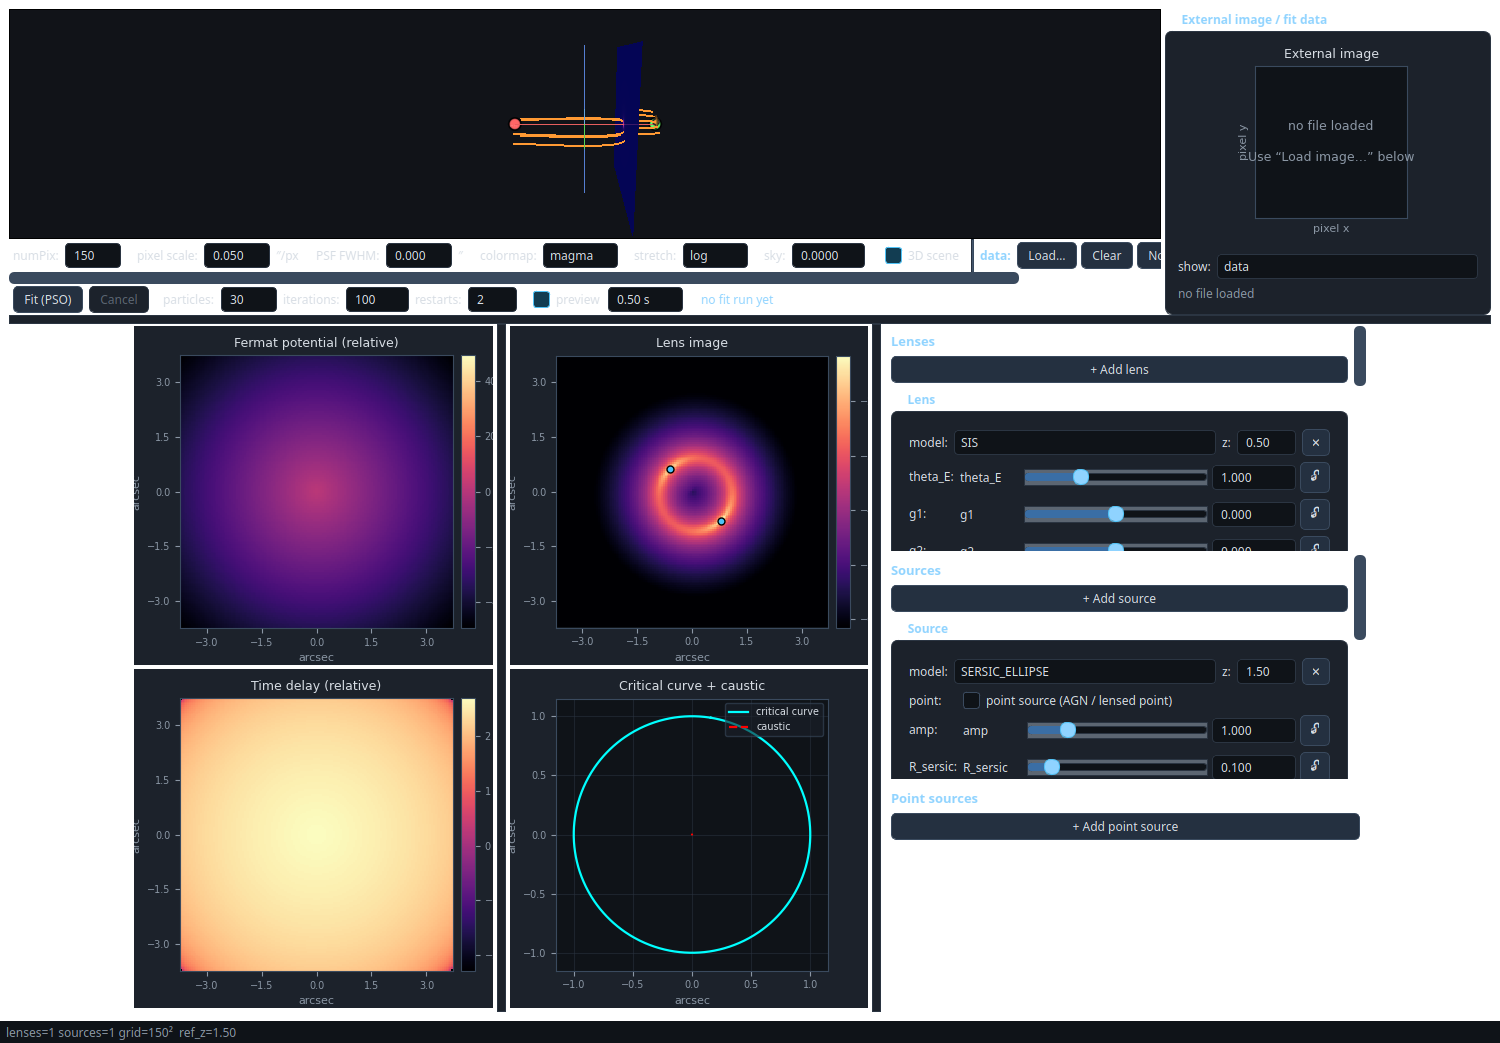
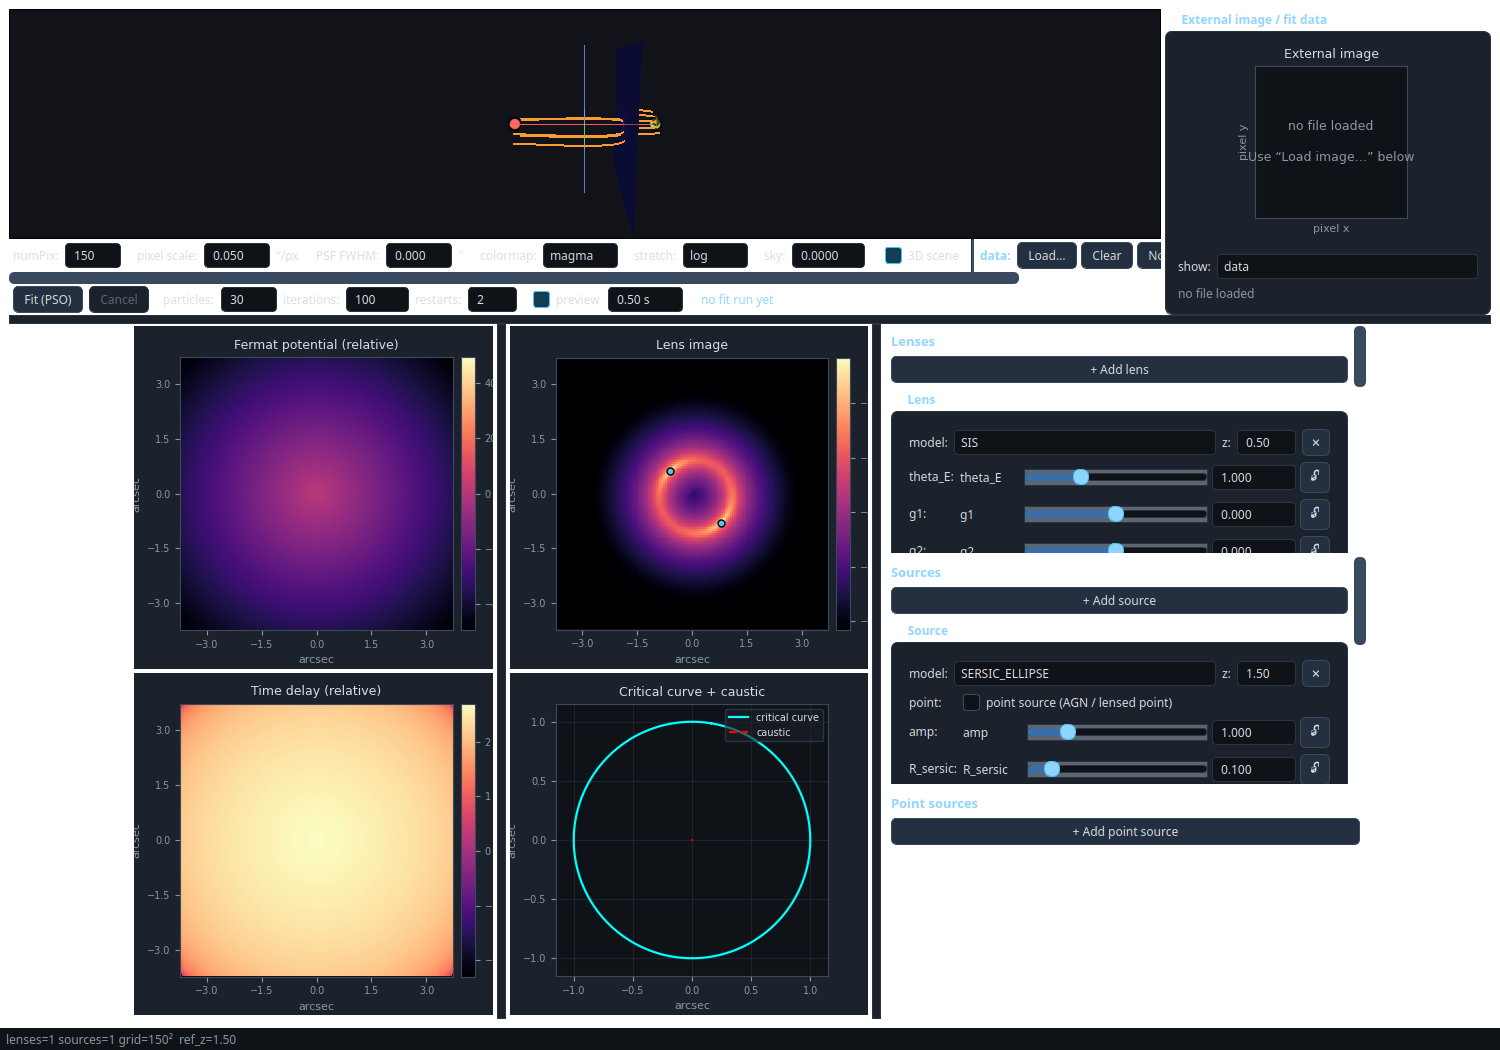
3D: make the lens plane more transparent (opacity 0.75 -> 0.35)

diff --git a/app/scene3d.py b/app/scene3d.py
@@ -208,7 +208,7 @@ class Scene3D:
                             vertex_colors=rgb.astype(np.float32),
                             shading="smooth", parent=self.view.scene)
         mesh.set_gl_state(blend=True, depth_test=True)
-        mesh.opacity = 0.75      # fairly solid so the mass plane reads clearly
+        mesh.opacity = 0.35      # translucent so the rays / scene read through it
         return mesh
 
     # ------------------------------------------------------- extended source
